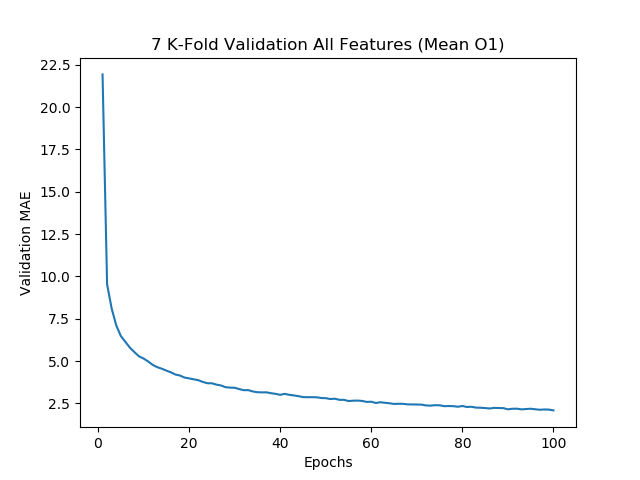
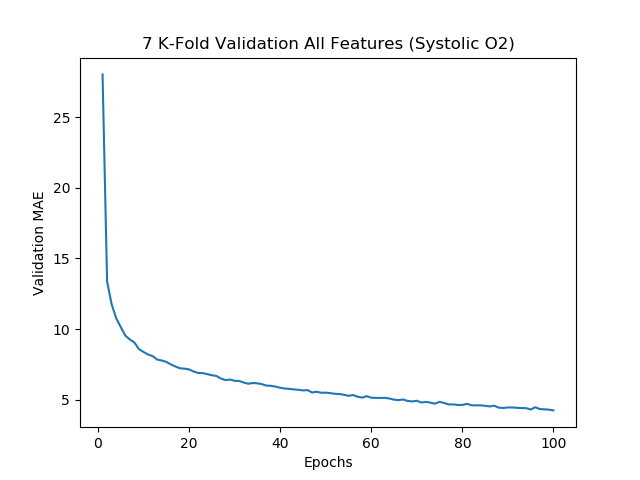
Recorded Test MAE Scores

diff --git a/dense_net.py b/dense_net.py
@@ -21,15 +21,15 @@ output_4 = pure_data[:,77]
 pure_data = pure_data[:,1:72]
 
 #deleting feautres 39, 68, 30, 64, 31, and 65
-'''
-pure_data = np.delete(pure_data, 68, 1)
+
+pure_data = np.delete(pure_data, 58, 1)
 #pure_data = np.delete(pure_data, 39, 1)
 pure_data = np.delete(pure_data, 30, 1)
 pure_data = np.delete(pure_data, 64, 1)
 pure_data = np.delete(pure_data, 31, 1)
 pure_data = np.delete(pure_data, 65, 1)
-'''
-train_data, test_data, train_targets, test_targets = train_test_split(pure_data, output_1, test_size =0.2)
+
+train_data, test_data, train_targets, test_targets = train_test_split(pure_data, output_2, test_size =0.2)
 
 print("TRAINING DATA SHAPE: ", train_data.shape, "|TESTING DATA SHAPE: ", test_data.shape)
 print("TRAINING TARGETS SHAPE: ", train_targets.shape, "|TESTING TARGETS SHAPE: ", test_targets.shape)
